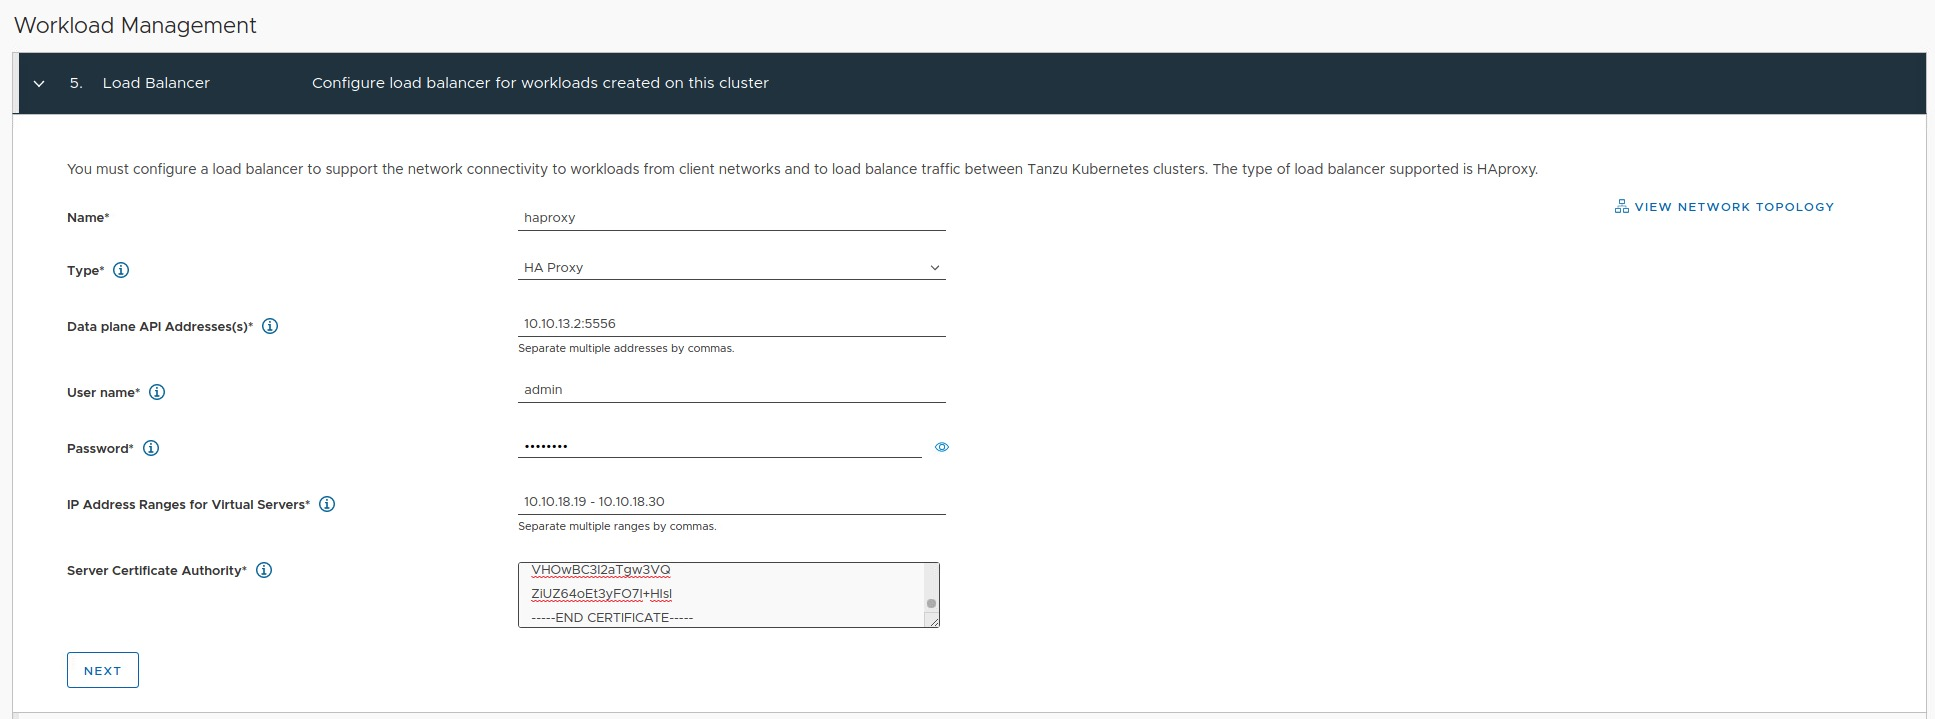
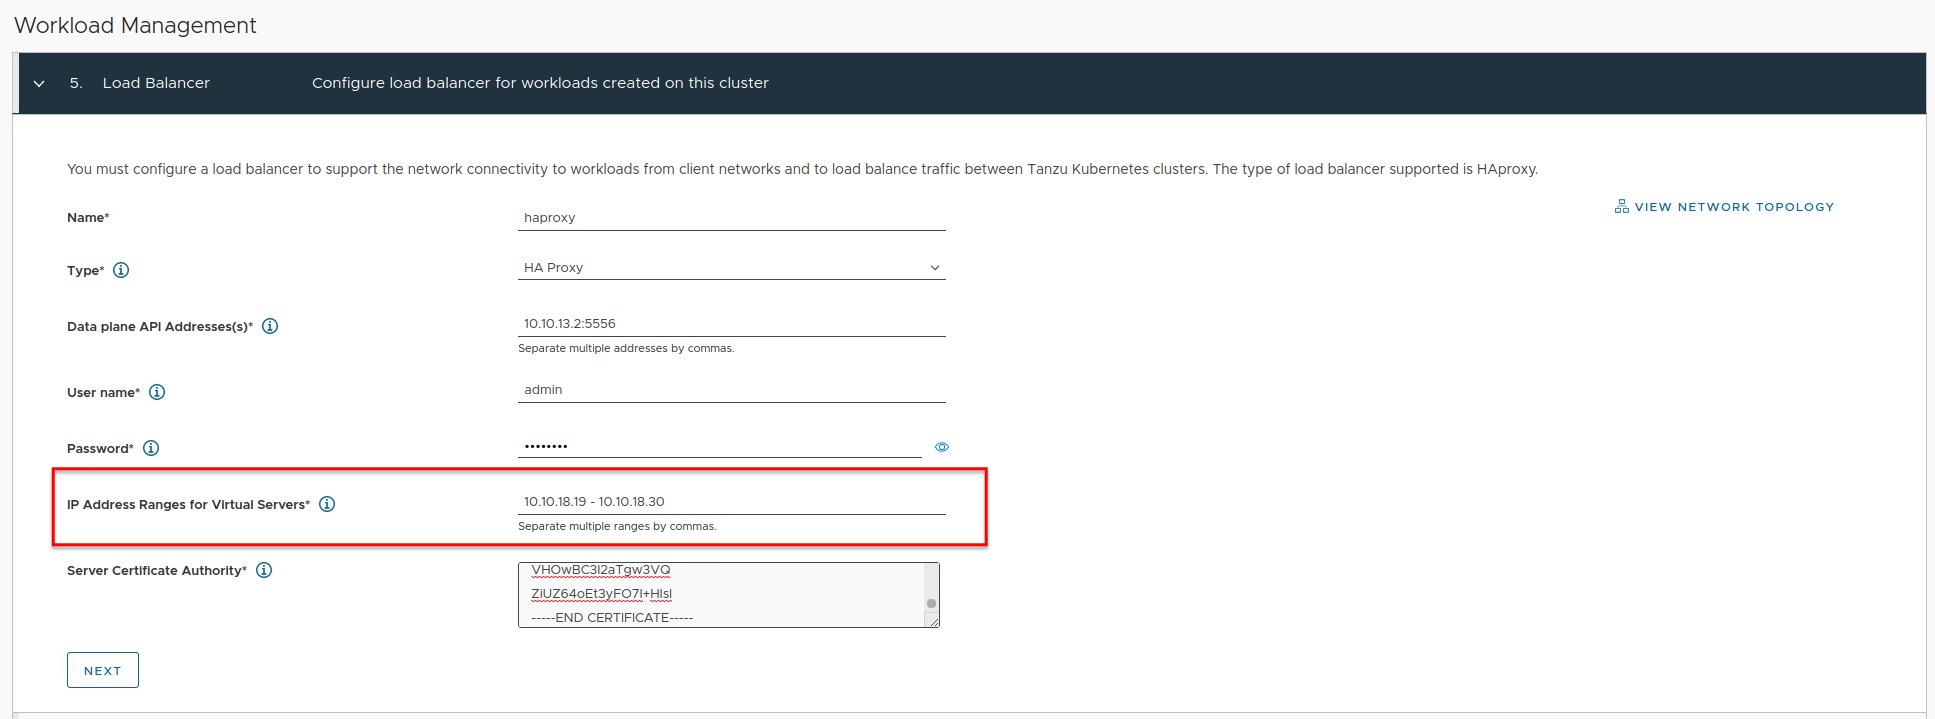
finished post haproxy troubleshooting

Changed region(s): [[0.0, 0.7344, 0.5271, 0.765], [0.031, 0.6426, 0.5271, 0.6732]]

diff --git a/content/posts/vsphere-with-tanzu-troubleshooting-haproxy.md b/content/posts/vsphere-with-tanzu-troubleshooting-haproxy.md
@@ -16,46 +16,126 @@ tags:
 ---
 ## Introduction
 
-You may already heard and read about our latest changes regarding our Kubernetes offering(s) [vSphere with Tanzu](https://docs.vmware.com/en/VMware-vSphere/7.0/vmware-vsphere-with-tanzu/GUID-C163490C-BE03-4DFE-8A03-5316D3245765.html) also former known as *vSphere with Kubernetes*. Personally, I was totally excited and full of anticipation to make my hands dirty and to experience how this new deployment option --> [vSphere Networking](https://docs.vmware.com/en/VMware-vSphere/7.0/vmware-vsphere-with-tanzu/GUID-C3048E95-6E9D-4AC3-BE96-44446D288A7D.html) works as an alternative to [NSX-T](https://docs.vmware.com/en/VMware-vSphere/7.0/vmware-vsphere-with-tanzu/GUID-B1388E77-2EEC-41E2-8681-5AE549D50C77.html) and how HAProxy is doing it's job within this construct. I don't know how you are dealing with new installations of the "NEW" but I always read the documentation first... ... NOT ... :speak_no_evil: ... but I should! :see_no_evil:
+You may have already heard and read about our latest changes regarding our Kubernetes offering(s) [vSphere with Tanzu](https://docs.vmware.com/en/VMware-vSphere/7.0/vmware-vsphere-with-tanzu/GUID-C163490C-BE03-4DFE-8A03-5316D3245765.html) also former known as *vSphere with Kubernetes*. Personally, I was totally excited and full of anticipation to make my first hands-on experience with this new deployment option --> [vSphere Networking](https://docs.vmware.com/en/VMware-vSphere/7.0/vmware-vsphere-with-tanzu/GUID-C3048E95-6E9D-4AC3-BE96-44446D288A7D.html) as an alternative to [NSX-T](https://docs.vmware.com/en/VMware-vSphere/7.0/vmware-vsphere-with-tanzu/GUID-B1388E77-2EEC-41E2-8681-5AE549D50C77.html) and how HAProxy is doing it's job within this construct. I don't know how you are dealing with installations of the "NEW" but I always read the documentation first... ... NOT ... :speak_no_evil: ... but I should! :see_no_evil:
 
-Honestly! Doesn't matter if we are talking about a Proof-of-Concept (PoC) or a test environment implementation, what counts by the end of the day, is a properly working solution and this is why we should be prepared best. Through this article, I will even more stress this point because I did a mistake which costs me a lot of time in troubleshooting the failure I've received. On the other hand and I would say "*as always*", it brought me some new insights.
+Honestly! Doesn't matter of which kind of implementation we are talking, is it a Homelab, Proof of Concept or Production, our final goal is a working solution and this is why we should be prepared best. Through this article, I will even more stress this point because I did a mistake which did cost me time in troubleshooting the failure I've received. On the other hand and "*as always*", it enlightened me and enriched my wealth of experience.
 
 ## Preperations
 
-This article will not describe the vSphere with Tanzu installation itself. For this, I would like to point you to this excellent [vSphere with Tanzu Quick Start Guide V1a](https://core.vmware.com/resource/vsphere-tanzu-quick-start-guide-v1a#_Toc53677531) which VMware is maintaining on the [Cloud Platform Tech Zone](https://core.vmware.com/).
+This article will not describe the vSphere with Tanzu installation itself. For this kind of details, I would like to point you to VMware's official documentation or to this [vSphere with Tanzu Quick Start Guide V1a](https://core.vmware.com/resource/vsphere-tanzu-quick-start-guide-v1a#_Toc53677531) (**for evaluation purposes**) which VMware is maintaining on the [Cloud Platform Tech Zone](https://core.vmware.com/).
 
-Also! For being better prepared as well as for documentation purposes, we are providing a checklist in form of an Excel file which can be shared or forwarded to the networking engineer of your confidence (*Figure I*).
+Also! For being prepared better as well as for documentation purposes, we are providing a checklist-file which can be downloaded through the `Workload Management` section in the vSphere Client and then shared or forwarded to the networking engineer of your confidence (*Figure I*).
 
 {{< image src="/img/posts/202011_haproxytrouble/CapturFiles-20201117_105840.jpg" caption="Figure I: Network Stack Checklist" src-s="/img/posts/202011_haproxytrouble/CapturFiles-20201117_105840.jpg" >}}
 
-### It should be a Network(-ID)
+### Resources
 
+* [VMware Docs - vSphere with Tanzu Basics](https://docs.vmware.com/en/VMware-vSphere/7.0/vmware-vsphere-with-tanzu/GUID-C163490C-BE03-4DFE-8A03-5316D3245765.html)
+* [VMware Cloud Platform Tech Zone - vSphere with Tanzu Quick Start Guide V1a](https://core.vmware.com/resource/vsphere-tanzu-quick-start-guide-v1a#_Toc53677531)
+* <i class='fab fa-github fa-fw'></i> - [HAProxy Direct Download Link](https://cdn.haproxy.com/download/haproxy/vsphere/ova/vmware-haproxy-v0.1.8.ova)
+* <i class='fab fa-github fa-fw'></i> - [HAProxy Powershell/PowerCLI Deployment Script](https://github.com/vsphere-tmm/QSG-Setup-Deploy)
+* <i class='fab fa-github fa-fw'></i> - [HAProxy Build the Appliance from scratch](https://github.com/haproxytech/vmware-haproxy)
+* Blogs:
+  * [Cormac Hogan - Deploy HA-Proxy for vSphere with Tanzu](https://cormachogan.com/2020/09/25/deploy-ha-proxy-for-vsphere-with-tanzu/)
+  * [Cormac Hogan - Enabling vSphere with Tanzu using HA-Proxy](https://cormachogan.com/2020/09/28/enabling-vsphere-with-tanzu-using-ha-proxy/)
+  * [Frank Denneman - vSphere with Tanzu vCenter Server Network Configuration Overview](https://frankdenneman.nl/2020/11/06/vsphere-with-tanzu-vcenter-server-network-configuration-overview/)
 
+## The Frontend Network
 
+[Step 6](https://core.vmware.com/resource/vsphere-tanzu-quick-start-guide-v1a#_Toc53677551) in the Quick Start Guide describes the deployment of the HAProxy Virtual Appliance on vSphere. OVA deployment step 7 gives us the ability to deploy HAProxy with an additional network interface to seperate the Kubernetes nodes of our clusters from the network used by clients or services to access these clusters (*Figure II*).
 
-| Subnet Mask | /28 | /27 | /26 | /25 | /24 |
-|:---: |:---: |:---: | :---: | :---: | :---:
-| Host IPs | 14 | 30 | 62 | 162 | 254 |
+{{< image src="/img/posts/202011_haproxytrouble/CapturFiles-20201117_094920.jpg" caption="Figure II: Option to choose Frontend Network " src-s="/img/posts/202011_haproxytrouble/CapturFiles-20201117_094920.jpg" >}}
 
-*\* : I excluded Network-ID and Broadcast-ID*
+{{< admonition info "Frontend Network Description" true >}}
+Description
+Deploy the Appliance with 3 nics: a Management network (Supervisor -> HAProxy dataplane), a single Workload network and a dedicated Frontend network. Load-balanced IPs are assigned on the Frontend network.
+{{< /admonition >}}
 
+The configuration of the additional Frontend network is not covered through the aforementioned Quick Start Guide (for simplicity reasons) but if you are going to deploy vSphere with Tanzu into production, it definitely should be used.
 
+I tried to simplify the traffic flow coming from the client and/ or service through the Kubernetes clusters roughly via the following chart:
 
-{{< image src="/img/posts/202011_haproxytrouble/CapturFiles-20201117_094920.jpg" caption="Figure I: " src-s="/img/posts/202011_haproxytrouble/CapturFiles-20201117_094920.jpg" >}}
+{{< mermaid >}}
+graph LR;
+    A[ HAProxy ]
+    subgraph HAProxy Interfaces
+    B[Management Network]
+    C[Workload Network]
+    D[Frontend Network]
+    end
+    E(VIPs)
+    subgraph Cluster VIPs
+    F[Supervisor VMs]
+    G[Guestcluster VMs]
+    end
+    subgraph Traffic from
+    H(Client / Service)
+    end
+    A --- B & C & D
+    D --- E
+    B & C --- F & G
+    E -.-> F & G
+    H -.- A
+    A -.- E
+{{< /mermaid >}}
 
-{{< image src="/img/posts/202011_haproxytrouble/CapturFiles-20201117_092255.jpg" caption="Figure I: " src-s="/img/posts/202011_haproxytrouble/CapturFiles-20201117_092255.jpg" >}}
+### It must be a valid Subnetwork
 
+OVA deployment step 2.7 requests the static IP address for the Frontend interface and ***this IP must be outside of the Load Balancer IP Range*** which you have to define in the next step 3.1. Furthermore, ***this IP range should not overlap with the assigned IP address of the Frontend network*** interface as well as with any other VMs in this range!
 
+I've misinterpreted the description for *Loadbalancer `IP ranges`* in step 3.1 which I should have painfully realised after the complete deployment. See the following *Figure III*:
 
-{{< image src="/img/posts/202011_haproxytrouble/CapturFiles-20201117_104643.jpg" caption="Figure I: " src-s="/img/posts/202011_haproxytrouble/CapturFiles-20201117_104643.jpg" >}}
+{{< image src="/img/posts/202011_haproxytrouble/CapturFiles-20201117_104643.jpg" caption="Figure III: Wrong configuration" src-s="/img/posts/202011_haproxytrouble/CapturFiles-20201117_104643.jpg" >}}
 
+In case you haven't noticed my mistake yet, I'd like to make a little excursion in networking 101. I entered `10.10.18.18/28` as an IP range which isn't a valid [Subnetwork](https://en.wikipedia.org/wiki/Subnetwork). A valid subnetwork configuration for my evaluation deployment should have looked like:
 
+| Description | Address |
+| :---: | :---: |
+| Network ID | 10.10.18.16 |
+| Broadcast | 10.10.18.31 |
+| Netmask | 255.255.255.240 |
+| Host IP starts with | 10.10.18.17 |
+| Host IP ends with | 10.10.18.30 |
 
-{{< image src="/img/posts/202011_haproxytrouble/CapturFiles-20201117_112102.jpg" caption="Figure I: " src-s="/img/posts/202011_haproxytrouble/CapturFiles-20201117_112102.jpg" >}}
+`10.10.18.16/28` is valid and because I decided to use a `/28` network, the available IPs for the virtual server range, which you have to provide in Step 5 in the `Workload Management` configuration (*Figure IV*) later on, starts with `.17` and ends with `.30`.
 
-{{< image src="/img/posts/202011_haproxytrouble/CapturFiles-20201117_115703.jpg" caption="Figure I: " src-s="/img/posts/202011_haproxytrouble/CapturFiles-20201117_115703.jpg" >}}
+{{< image src="/img/posts/202011_haproxytrouble/CapturFiles-20201117_112102.jpg" caption="Figure IV: Load Balancer Configuration Workload Management Wizard" src-s="/img/posts/202011_haproxytrouble/CapturFiles-20201117_112102.jpg" >}}
 
-`kubectl vsphere login --insecure-skip-tls-verify --vsphere-username administrator@jarvis.lab --server=10.10.18.1`
+The following table gives you a quick overview of available Host IPs for a specific subnetwork.
+
+| Subnet Mask | /29 | /28 | /27 | /26 | /25 | /24 |
+|:---: |:---: |:---: | :---: | :---: | :---: | :---: |
+| Host IPs | 6 | 14 | 30 | 62 | 162 | 254 |
+
+*\* I excluded Network-ID and Broadcast-ID*
+
+---
+
+#### Don't be confused
+
+The following hasn't to do with the actual problem but the hint could avoid an uncertainty. *Figure V* shows the configuration summary of Step 5 and `Ingress CIDR/ IP Ranges: 10.10.18.19/11` (in my example) could be confusing.
+
+{{< image src="/img/posts/202011_haproxytrouble/CapturFiles-20201117_112122.jpg" caption="Figure V: Load Balancer Configuration Workload Management Wizard" src-s="/img/posts/202011_haproxytrouble/CapturFiles-20201117_112122.jpg" >}}
+
+What it shows, is the first IP - `.19` - and the maximum number of remaining IPs - `/11` - for your defined `IP Ranges for Virtual Servers`.
+
+---
+
+## Connect: No route to host.
+
+At first sight, the installation seems to be successful and the Cluster Config Status in the vSphere client doesn't indicate the opposite (*Figure V*).
+
+{{< image src="/img/posts/202011_haproxytrouble/CapturFiles-20201117_092255.jpg" caption="Figure V: Workload Management Status" src-s="/img/posts/202011_haproxytrouble/CapturFiles-20201117_092255.jpg" >}}
+
+But appearances are deceptive! I created a vSphere Namespace to deploy a [Tanzu Kubernetes Cluster](https://rguske.github.io/post/vsphere-7-with-kubernetes-supercharged-helm-harbor-tkg/) (Guest Cluster) and clicked on the **OPEN** button/ link to the CLI tools (*Figure VI*) to check the reachability of my Supervisor Cluster and got an `ERR_ADDRESS_UNREACHABLE` back.
+
+{{< image src="/img/posts/202011_haproxytrouble/CapturFiles-20201120_040144.jpg" caption="Figure VI: Link to CLI Tools" src-s="/img/posts/202011_haproxytrouble/CapturFiles-20201120_040144.jpg" >}}
+
+Of course that made me suspicious and I tried to login via `kubectl vsphere login`:
+
+`kubectl vsphere login --insecure-skip-tls-verify --vsphere-username administrator@jarvis.lab --server=10.10.18.19`
+
+and got the following error:
 
 {{< admonition failure "ERROR" true >}}
 ERRO[0005] Error occurred during HTTP request: Get https://10.10.18.19/wcp/loginbanner: dial tcp 10.10.18.19:443: connect: no route to host
@@ -63,21 +143,72 @@ There was an error when trying to connect to the server.\n
 Please check the server URL and try again.FATA[0005] Error while connecting to host 10.10.18.19: Get https://10.10.18.19/wcp/loginbanner: dial tcp 10.10.18.19:443: connect: no route to host.
 {{< /admonition >}}
 
+### HAProxy Frontend VIP bind service
 
-{{< admonition info "Description" true >}}
-Description
-Deploy the Appliance with 3 nics: a Management network (Supervisor -> HAProxy dataplane), a single Workload network and a dedicated Frontend network. Load-balanced IPs are assigned on the Frontend network
-{{< /admonition >}}
+Having a look at [my above drawing](https://rguske.github.io/post/vsphere-with-tanzu-troubleshooting-haproxy/#the-frontend-network) it shows us that our incoming request tries to reach the Frontend VIP `10.10.18.19` trough HAProxy. Because HAProxy is providing those VIP's, it's logical to start troubleshooting the HAProxy appliance first. SSH is enabled by default.
 
+I started with a simple status check of all services by executing `systemctl status`. The output was surprisingly **`degraded`**.
 
+Let`s narrow it down!
 
+```code
+root@haproxy [ / ]# systemctl list-units --state=failed
 
-{{< admonition info "Description" true >}}
-This IP must be outside of the Load Balancer IP Range
-{{< /admonition >}}
+  UNIT                 LOAD   ACTIVE SUB    DESCRIPTION
+● anyip-routes.service loaded failed failed anyip-routes.service
 
+● haproxy.service      loaded failed failed HAProxy Load Balancer
 
+● route-tables.service loaded failed failed route-tables.service
+```
 
-{{< admonition info "Description" true >}}
-As such, these ranges must not overlap with the IPs assigned for the appliance or any other VMs on the network.
-{{< /admonition >}}
+Three services has failed to start. I'm starting from the top with verifying the `anyip-routes.service`.
+
+```code
+root@haproxy [ / ]# systemctl status anyip-routes.service
+
+● anyip-routes.service
+   Loaded: loaded (/etc/systemd/system/anyip-routes.service; enabled; vendor preset: enabled)
+   Active: failed (Result: exit-code) since Fri 2020-11-20 15:30:07 UTC; 3min 5s ago
+  Process: 783 ExecStopPost=/var/lib/vmware/anyiproutectl.sh down (code=exited, status=0/SUCCESS)
+  Process: 777 ExecStartPre=/var/lib/vmware/anyiproutectl.sh up (code=exited, status=2)
+  Process: 776 ExecStartPre=/bin/mkdir -p /var/log/vmware (code=exited, status=0/SUCCESS)
+
+Nov 20 15:30:07 haproxy.jarvis.lab systemd[1]: Starting anyip-routes.service...
+Nov 20 15:30:07 haproxy.jarvis.lab anyiproutectl.sh[777]: adding route for 10.10.18.18/28
+Nov 20 15:30:07 haproxy.jarvis.lab anyiproutectl.sh[777]: RTNETLINK answers: Invalid argument
+Nov 20 15:30:07 haproxy.jarvis.lab systemd[1]: anyip-routes.service: Control process exited, code=exited status=2
+Nov 20 15:30:07 haproxy.jarvis.lab systemd[1]: anyip-routes.service: Failed with result 'exit-code'.
+Nov 20 15:30:07 haproxy.jarvis.lab systemd[1]: Failed to start anyip-routes.service.
+```
+
+The mentioned script in this line `Process: 783 ExecStopPost=/var/lib/vmware/anyiproutectl.sh down (code=exited, status=0/SUCCESS)` seems to do something and by reviewing it, I found the following hint to the configuration file location for the broken service.
+
+```shell
+[...]
+
+# The path to the config file used by this program.
+CONFIG_FILE="${CONFIG_FILE:-/etc/vmware/anyip-routes.cfg}"
+
+[...]
+```
+
+```code
+root@haproxy [ /etc/vmware ]# cat anyip-routes.cfg
+
+#
+# Configuration file that contains a line-delimited list of CIDR values
+# that define the network ranges used to bind the load balancer's frontends
+# to virtual IP addresses.
+#
+# * Lines beginning with a comment character, #, are ignored
+# * This file is used by the anyip-routes service
+#
+10.10.18.18/28
+```
+
+Verifying the file and thus my made configuration finally brought me enlightenment. I changed it consequently from `10.10.18.18/28` to a valid Subnetwork range, which is the already mentioned `10.10.18.16/28` and restarted the service `systemctl restart anyip-routes.service`.
+
+{{< image src="/img/posts/202011_haproxytrouble/CapturFiles-20201122_090840.jpg" caption="Figure VII: Adjusted anyip-routes.cfg file | restart service | ping Supervisor VIP" src-s="/img/posts/202011_haproxytrouble/CapturFiles-20201122_090840.jpg" >}}
+
+DONE!
